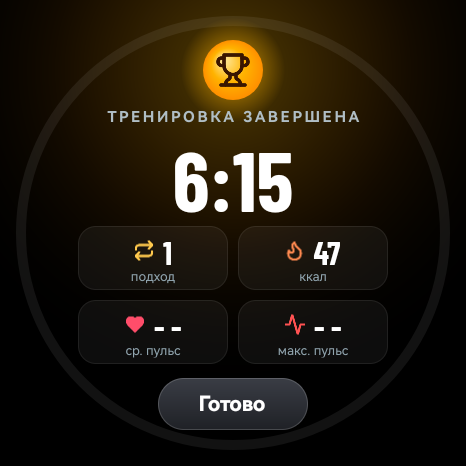
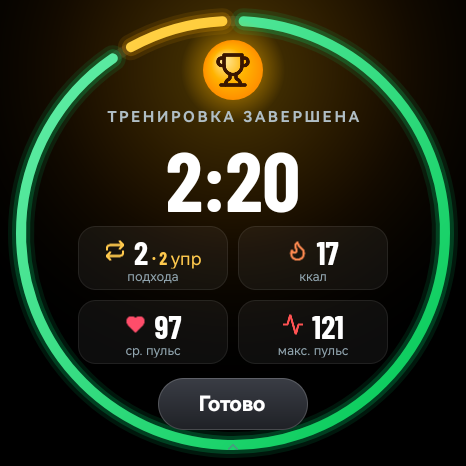
Summary screenshots with live heart rate

diff --git a/README.md b/README.md
@@ -41,7 +41,8 @@
   </tr>
 </table>
 
-> Screenshots are taken from a real Huawei Watch 4 Pro (worn off-wrist, hence no heart rate).
+> Screenshots are taken from a real Huawei Watch 4 Pro. Most were shot off-wrist, hence no heart rate;
+> the two summary screens come from a workout on the wrist.
 > The UI follows the watch language: Russian, or English for any other locale.
 
 ## Why
